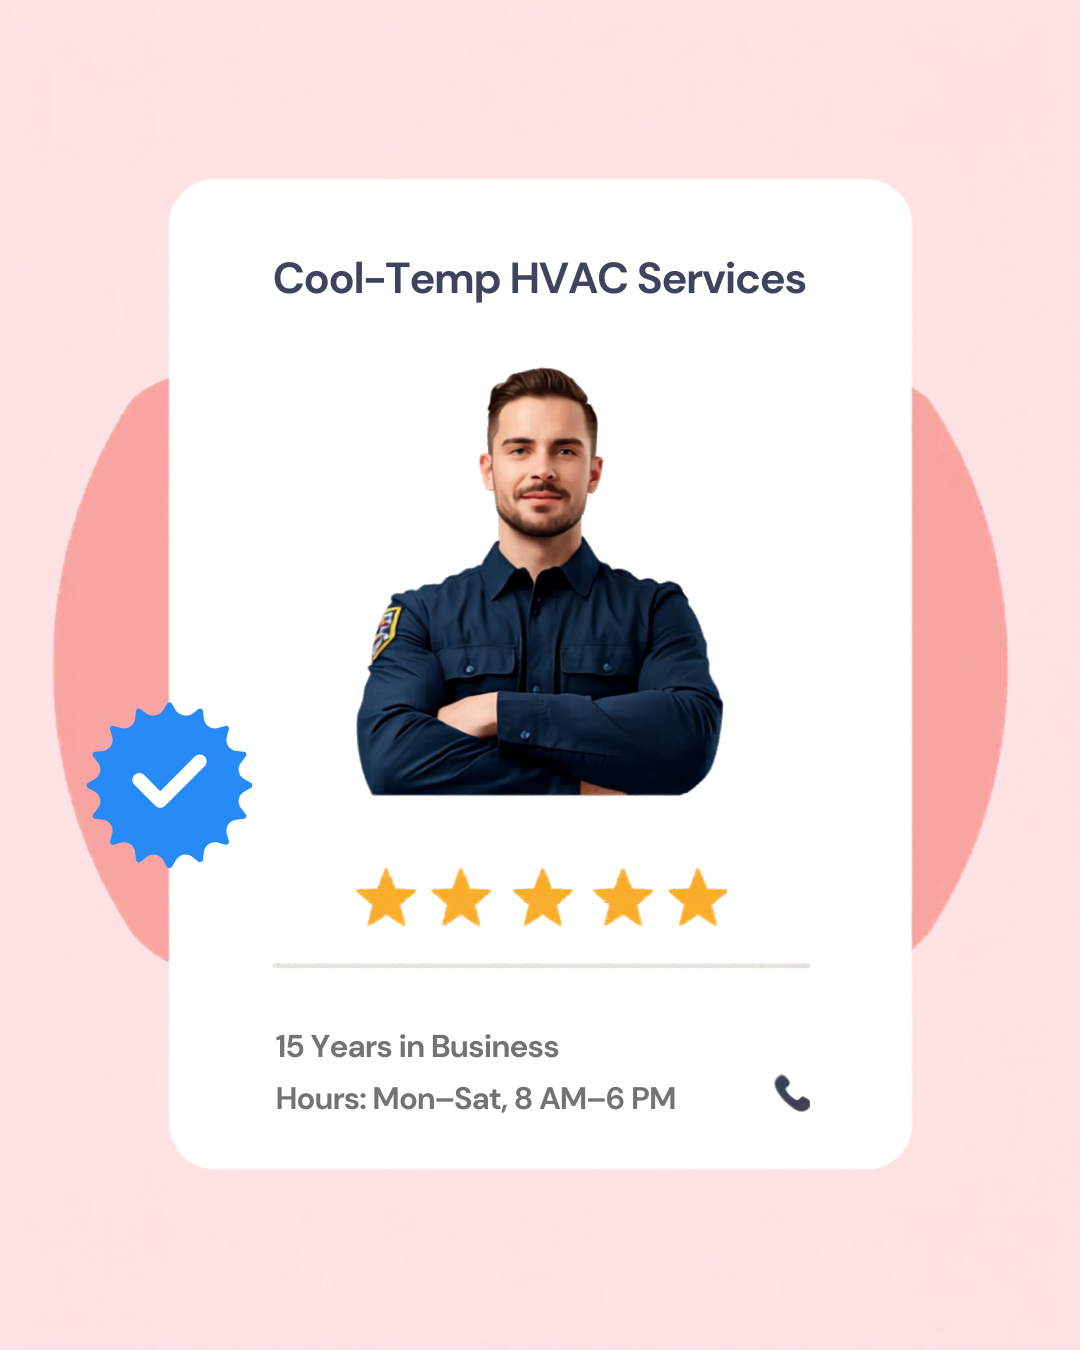
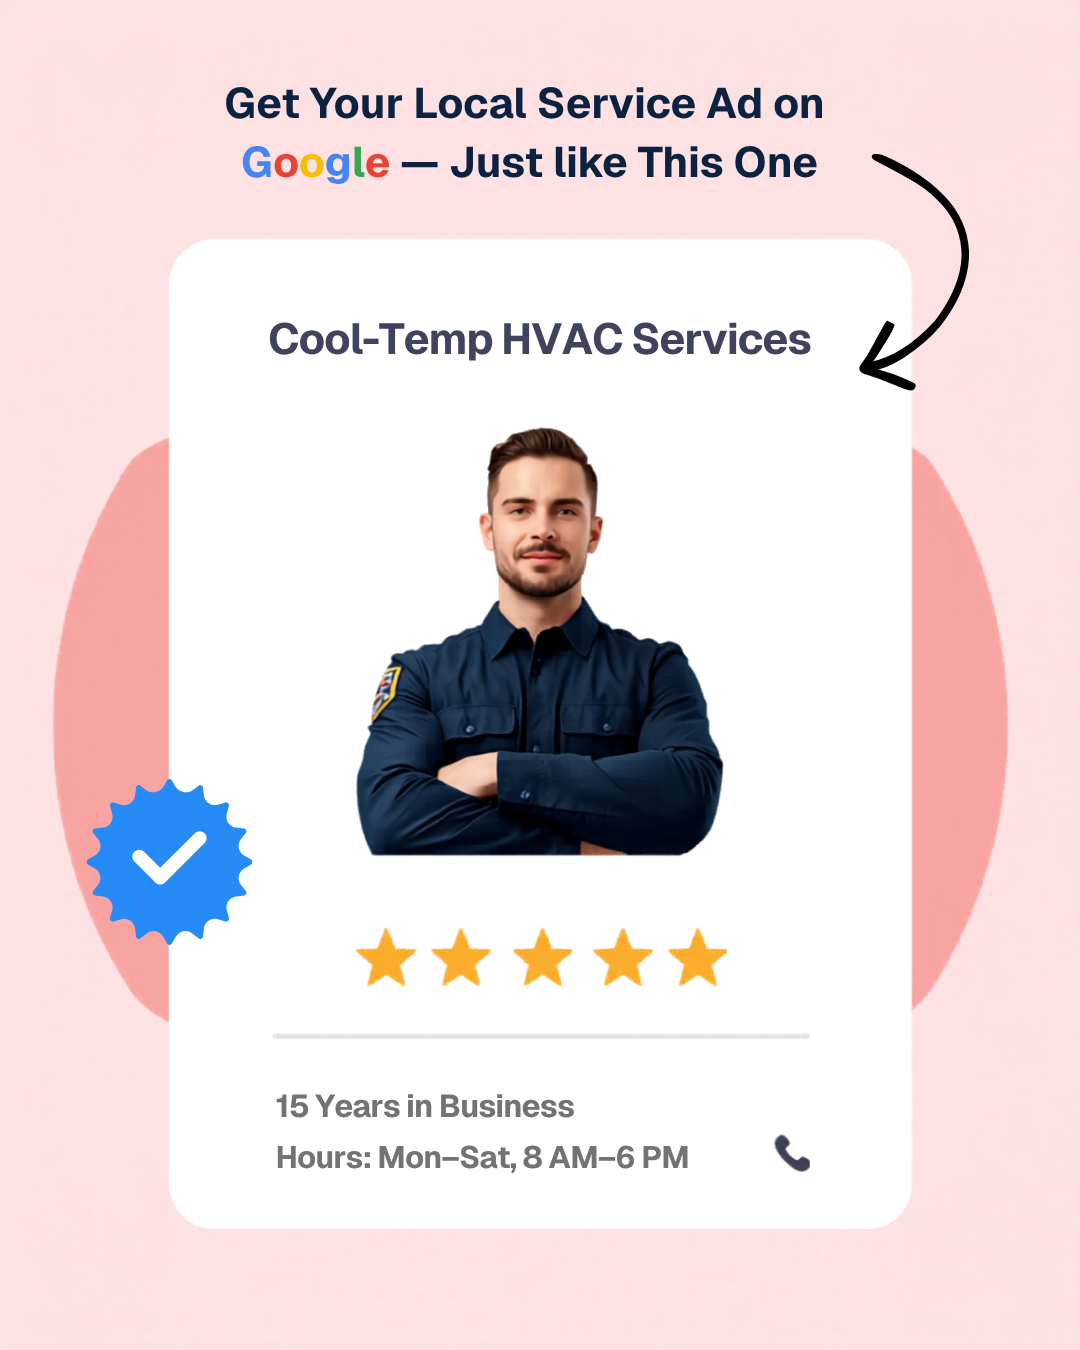
Google Tag Implemeted + Copy Updates + Hero Image Change

diff --git a/components/sections/hero.tsx b/components/sections/hero.tsx
@@ -20,7 +20,7 @@ export function Hero() {
       <div className="relative mx-auto grid max-w-7xl grid-cols-1 items-center gap-10 px-4 sm:px-6 lg:grid-cols-12 lg:gap-12 lg:px-8">
         <div className="lg:col-span-7">
           <h1 className="animate-in fade-in slide-in-from-bottom-2 fill-mode-both text-4xl font-bold tracking-tight text-navy duration-700 sm:text-5xl lg:text-[3.5rem] lg:leading-[1.05]">
-            Top HVAC Marketing Agency in Barrie — <span className="text-amber">Get More Local HVAC Customers in Barrie.</span>
+            Get More Local HVAC Customers in <span className="text-amber">Barrie and Simcoe County.</span>
           </h1>
           <p
             className="mt-5 max-w-2xl animate-in fade-in slide-in-from-bottom-2 fill-mode-both text-base text-muted-fg delay-150 duration-700 sm:text-lg"
@@ -51,7 +51,7 @@ export function Hero() {
             className="mt-6 animate-in fade-in fill-mode-both text-sm text-muted-fg duration-700"
             style={{ animationDelay: "450ms" }}
           >
-            Based in Barrie, ON · No long contracts · Free audit, no pitch
+            Based in Barrie, ON · No long contracts · ↖ Free marketing audit
           </p>
         </div>
 

diff --git a/components/analytics/google-tag-manager.tsx b/components/analytics/google-tag-manager.tsx
@@ -1,0 +1,34 @@
+import Script from "next/script";
+
+const GTM_ID = process.env.NEXT_PUBLIC_GTM_ID || "GTM-M5PDJ5PC";
+
+export function GTMHead() {
+  if (!GTM_ID) return null;
+
+  return (
+    <Script id="gtm-script" strategy="afterInteractive">
+      {`
+        (function(w,d,s,l,i){w[l]=w[l]||[];w[l].push({'gtm.start':
+        new Date().getTime(),event:'gtm.js'});var f=d.getElementsByTagName(s)[0],
+        j=d.createElement(s),dl=l!='dataLayer'?'&l='+l:'';j.async=true;j.src=
+        'https://www.googletagmanager.com/gtm.js?id='+i+dl;f.parentNode.insertBefore(j,f);
+        })(window,document,'script','dataLayer','${GTM_ID}');
+      `}
+    </Script>
+  );
+}
+
+export function GTMBody() {
+  if (!GTM_ID) return null;
+
+  return (
+    <noscript>
+      <iframe
+        src={`https://www.googletagmanager.com/ns.html?id=${GTM_ID}`}
+        height="0"
+        width="0"
+        style={{ display: "none", visibility: "hidden" }}
+      />
+    </noscript>
+  );
+}

diff --git a/app/layout.tsx b/app/layout.tsx
@@ -10,6 +10,7 @@ import {
   PHONE_TEL,
   SITE_URL,
 } from "@/lib/constants";
+import { GTMHead, GTMBody } from "@/components/analytics/google-tag-manager";
 import "./globals.css";
 
 export const metadata: Metadata = {
@@ -92,9 +93,11 @@ export default function RootLayout({ children }: { children: React.ReactNode }) 
           type="application/ld+json"
           dangerouslySetInnerHTML={{ __html: JSON.stringify(faqSchema) }}
         />
+        <GTMHead />
         <MetaPixel />
       </head>
       <body className="bg-bg text-text antialiased">
+        <GTMBody />
         {children}
         <GoogleAnalytics />
       </body>

diff --git a/components/sections/how-it-works.tsx b/components/sections/how-it-works.tsx
@@ -11,7 +11,7 @@ export function HowItWorks() {
             Marketing Done Right. For HVAC Companies in Barrie.
           </h2>
           <p className="mt-4 text-base text-muted-fg sm:text-lg">
-            We’ve built the exact system we would want if we owned an HVAC business. Transparent pricing, clear communication, and a focus on real ROI — not vanity metrics.
+            We’ve built the exact system we would want if we owned an HVAC business. Transparent pricing, clear communication, and a focus on real ROI.
           </p>
         </Reveal>
 

diff --git a/GoogleTag_Implementation.md b/GoogleTag_Implementation.md
@@ -1,0 +1,70 @@
+# Google Tag Manager Implementation Plan
+
+This plan outlines the integration of Google Tag Manager (GTM) into the Next.js application to enable advanced tracking and marketing analytics.
+
+## User Review Required
+
+> [!IMPORTANT]
+> The GTM Container ID provided is `GTM-M5PDJ5PC`. Please confirm if this is the correct production container ID.
+
+## Proposed Changes
+
+### Analytics Components
+
+We will create a new component to house the GTM scripts, keeping the `layout.tsx` clean and following the project's existing pattern for third-party scripts.
+
+#### [NEW] [google-tag-manager.tsx](file:///c:/Projects/hvac-claudecode/components/analytics/google-tag-manager.tsx)
+- Implement `GTMHead` and `GTMBody` components.
+- `GTMHead`: Uses `next/script` to load the GTM library with the `afterInteractive` strategy (or `beforeInteractive` if immediate tracking is required).
+- `GTMBody`: Provides the `<noscript>` iframe fallback for users with JavaScript disabled.
+
+### Root Layout
+
+#### [MODIFY] [layout.tsx](file:///c:/Projects/hvac-claudecode/app/layout.tsx)
+- Import the new GTM components.
+- Inject `GTMHead` into the `<head>` section.
+- Inject `GTMBody` at the very beginning of the `<body>` tag, as per Google's best practices.
+
+### Environment Variables
+
+#### [MODIFY] [.env.example](file:///c:/Projects/hvac-claudecode/.env.example)
+- Add `NEXT_PUBLIC_GTM_ID` to the template.
+
+---
+
+## Technical Details
+
+### GTM Script (Head)
+```tsx
+<Script id="gtm-script" strategy="afterInteractive">
+  {`
+    (function(w,d,s,l,i){w[l]=w[l]||[];w[l].push({'gtm.start':
+    new Date().getTime(),event:'gtm.js'});var f=d.getElementsByTagName(s)[0],
+    j=d.createElement(s),dl=l!='dataLayer'?'&l='+l:'';j.async=true;j.src=
+    'https://www.googletagmanager.com/gtm.js?id='+i+dl;f.parentNode.insertBefore(j,f);
+    })(window,document,'script','dataLayer','${gtmId}');
+  `}
+</Script>
+```
+
+### GTM Noscript (Body)
+```tsx
+<noscript>
+  <iframe
+    src={`https://www.googletagmanager.com/ns.html?id=${gtmId}`}
+    height="0"
+    width="0"
+    style={{ display: "none", visibility: "hidden" }}
+  />
+</noscript>
+```
+
+## Verification Plan
+
+### Automated Tests
+- N/A (Tracking scripts are typically verified manually or via browser automation in E2E tests).
+
+### Manual Verification
+1.  **Google Tag Assistant**: Deploy to a preview environment and use the Tag Assistant extension to verify the container is active.
+2.  **Data Layer Inspection**: Open the browser console and type `dataLayer` to ensure it is initialized and contains the `gtm.js` event.
+3.  **DOM Inspection**: Verify the `<noscript>` iframe is present immediately after the `<body>` tag.
